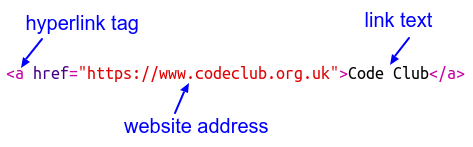
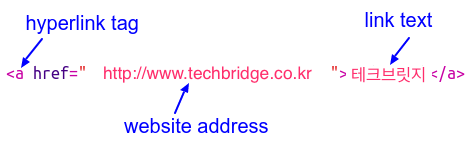
update web lesson - showcase

Changed region(s): [[0.1776, 0.4354, 0.9175, 0.5714]]

diff --git a/curriculum/web/Project Showcase/README.md b/curriculum/web/Project Showcase/README.md
@@ -26,17 +26,15 @@
 ![screenshot](showcase-a-template.png)
 
 
-+ 코드클럽 웹사이트 주소를 더하고 <a href="https://www.codeclub.org.uk">`https://www.codeclub.org.uk`</a> 텍스트를 링크하세요:
++ 테크브릿지 웹사이트 주소를 더하고 <a href="http://www.techbridge.co.kr">`http://www.techbridge.co.kr`</a> 텍스트를 링크하세요:
 
-![screenshot](showcase-code-club.png)
+![screenshot](showcase-techbridge.png)
 
 + run을 눌러서 트링켓을 확인해보세요.
 
 ![screenshot](showcase-cc-output.png)
 
-+ 코드 클럽 링크를 눌러서 웹페이지를 확인해보세요. 이제 트링켓이 코드클럽 웹페이지를 보여줘야 합니다: 	
-
-![screenshot](showcase-cc-website.png)
++ 테크브릿지 링크를 눌러서 웹페이지를 확인해보세요. 이제 트링켓이 테크브릿지 웹페이지를 보여줘야 합니다: 	
 
 + 원래 페이지로 돌아가려면 :
 
@@ -56,9 +54,7 @@
 
 ## 도전과제: 다른 링크 더하기 {.challenge}
 
-이 웹프로젝트들을 만드는데 도움이 됬던 웹사이트의 링크를 문장 안에 더하세요. 예를 들자면: <a href="https://trinket.io">https://trinket.io</a> or <a href="http://colours.neilorangepeel.com">http://colours.neilorangepeel.com</a>.
-
-![screenshot](showcase-link-challenge.png)
+이 웹프로젝트들을 만드는데 도움이 됬던 웹사이트의 링크를 문장 안에 더하세요. 예를 들자면: <a href="https://trinket.io">https://trinket.io</a> 혹은 <a href="http://colours.neilorangepeel.com">http://colours.neilorangepeel.com</a>.
 
 # 프로젝트를 저장하세요 {.activity}
 
@@ -86,7 +82,7 @@
 
 ![screenshot](showcase-link-trinket.png)
 
-웹페이지를 다시 확인하세요. 이렇게 보여야할 입니다:
+웹페이지를 다시 확인하세요. 이렇게 보여야 합니다:
 
 ![screenshot](showcase-link-output.png)
 
@@ -96,19 +92,19 @@
 
 ## 도전과제: 프로젝트 리스트 만들기 {.challenge}
 
-코드클럽에서 만들었던 다른 HTML &amp; CSS 프로젝트 들을 더하세요. `<h2>` 헤딩을 사용해서 웹페이지를 정리하세요.
+테크브릿지에서 만들었던 다른 HTML &amp; CSS 프로젝트 들을 더하세요. `<h2>` 헤딩을 사용해서 웹페이지를 정리하세요.
 
-만들었던 다른 프로젝트가 없다면 코드클럽에서 주는 예시들을 사용할 수 있습니다:
+만들었던 다른 프로젝트가 없다면 테크브릿지에서 주는 예시들을 사용할 수 있습니다:
 
-+ Happy Birthday: <a href="https://trinket.io/html/e996dc0380">https://trinket.io/html/e996dc0380</a>
++ 생일 축하 카드: <a href="https://trinket.io/html/e996dc0380">https://trinket.io/html/e996dc0380</a>
 
-+ Tell a Story: <a href="https://trinket.io/html/c8afdef912">https://trinket.io/html/c8afdef912</a>
++ 이야기 만들기: <a href="https://trinket.io/html/c8afdef912">https://trinket.io/html/c8afdef912</a>
 
-+ Wanted: <a href="https://trinket.io/html/ebeb56398a">https://trinket.io/html/ebeb56398a</a>
++ 로봇을 찾습니다!: <a href="https://trinket.io/html/ebeb56398a">https://trinket.io/html/ebeb56398a</a>
 
-+ Recipe: <a href="https://trinket.io/html/c0fd9b40cd">https://trinket.io/html/c0fd9b40cd</a>
++ 나만의 레시피: <a href="https://trinket.io/html/c0fd9b40cd">https://trinket.io/html/c0fd9b40cd</a>
 
-+ Mystery Letter: <a href="https://trinket.io/html/1d4d4c5ce1">https://trinket.io/html/1d4d4c5ce1</a>
++ 수수께끼 만들기: <a href="https://trinket.io/html/1d4d4c5ce1">https://trinket.io/html/1d4d4c5ce1</a>
 
 완성된 페이지는 이렇게 생겼을 것입니다:
 
